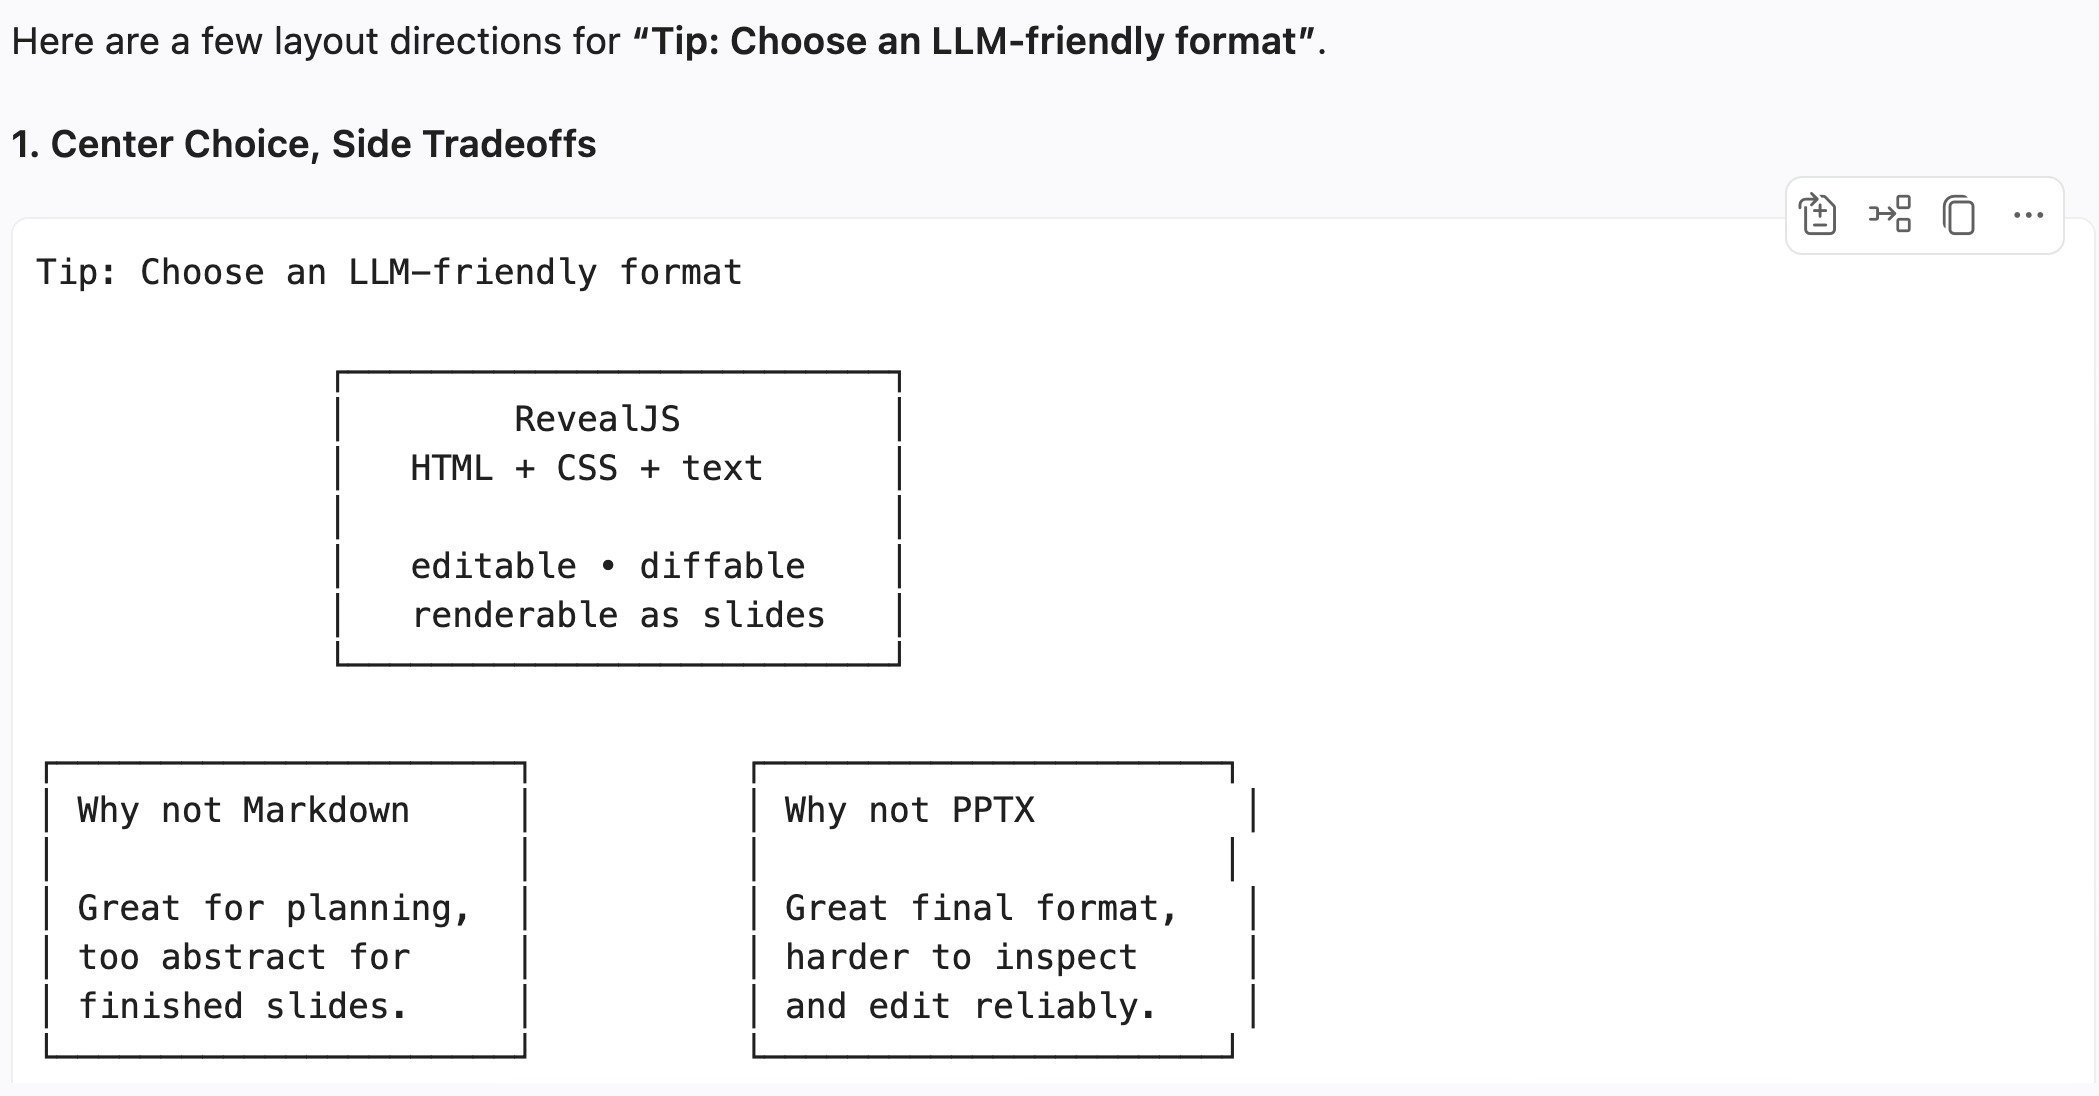
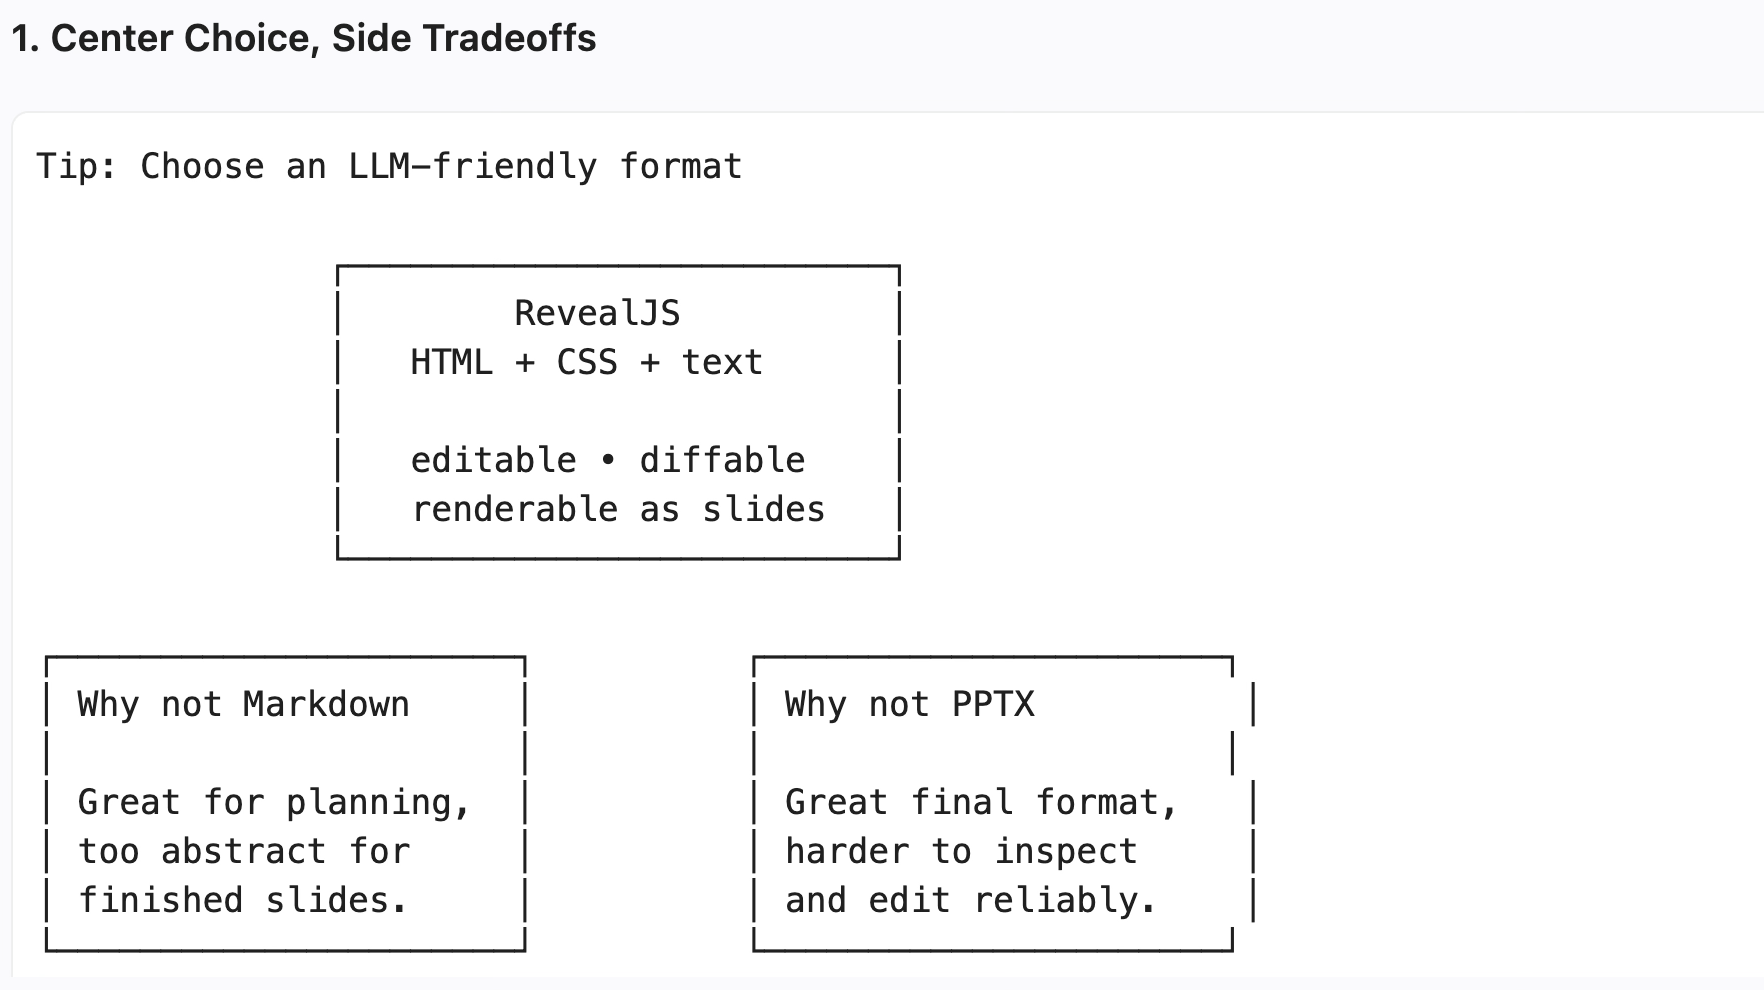
Update slides

diff --git a/docs/index.html b/docs/index.html
@@ -45,7 +45,7 @@
 
 		.reveal .slides section {
 			text-align: left;
-			padding-top: 0;
+			padding-top: 18px;
 			padding-left: 72px;
 			padding-right: 72px;
 			box-sizing: border-box;
@@ -964,15 +964,26 @@
 			box-shadow: 0 0 22px rgba(43, 93, 255, 0.22), inset 0 0 0 1px rgba(255, 43, 214, 0.14);
 			border-collapse: separate;
 			border-spacing: 0;
+			height: 100%;
 			padding: 12px 16px;
 			width: 100%;
+		}
+
+		.contact-table tbody {
+			display: table-row-group;
+			height: 100%;
+		}
+
+		.contact-table tr {
+			height: 16.66%;
 		}
 
 		.contact-table td {
 			border: 0;
 			font-size: 0.54em;
 			line-height: 1.18;
-			padding: 8px 10px;
+			padding: 10px;
+			vertical-align: middle;
 		}
 
 		.contact-table td:first-child {
@@ -1012,6 +1023,40 @@
 			font-size: 0.58em;
 			line-height: 1.24;
 			margin: 0;
+		}
+
+		.about-grid {
+			display: grid;
+			grid-template-columns: 1.35fr 0.65fr;
+			gap: 28px;
+			margin-top: 18px;
+			align-items: start;
+		}
+
+		.about-copy {
+			padding: 0;
+		}
+
+		.about-copy p {
+			font-size: 0.66em;
+			line-height: 1.24;
+			margin: 0 0 12px;
+		}
+
+		.about-copy .contact-table {
+			box-shadow: none;
+			margin-top: 10px;
+			padding: 8px 10px;
+		}
+
+		.about-photo {
+			border: 2px solid var(--deck-cyan);
+			border-radius: 6px;
+			box-shadow: 0 0 26px rgba(65, 223, 255, 0.28);
+			display: block;
+			max-height: 430px;
+			object-fit: cover;
+			width: 100%;
 		}
 
 		.iteration-grid {
@@ -1084,15 +1129,15 @@
 		.ascii-collage {
 			display: grid;
 			grid-template-columns: 1fr 1fr;
-			gap: 14px 18px;
-			margin-top: 16px;
+			gap: 4px 4px;
+			margin-top: 2px;
 		}
 
 		.ascii-prompt {
 			display: flex;
 			flex-direction: column;
 			align-items: flex-start;
-			margin-top: 14px;
+			margin-top: 4px;
 		}
 
 		.ascii-prompt-box {
@@ -1105,9 +1150,9 @@
 			font-family: var(--deck-body-font);
 			font-size: 0.22em;
 			font-weight: 700;
-			line-height: 1.18;
+			line-height: 1.08;
 			margin: 0;
-			padding: 16px 18px 14px;
+			padding: 7px 12px 6px;
 			white-space: nowrap;
 			width: 100%;
 		}
@@ -1122,10 +1167,11 @@
 			border: 2px solid var(--deck-border);
 			border-radius: 6px;
 			display: block;
-			max-height: 230px;
+			max-height: 240px;
 			max-width: 100%;
 			width: auto;
 			height: auto;
+			margin: 6px 0;
 		}
 
 		.ascii-shot.wide {
@@ -1133,8 +1179,12 @@
 		}
 
 		.ascii-shot.wide img {
-			max-height: 250px;
+			max-height: 194px;
 			height: auto;
+		}
+
+		.ascii-slide h3 {
+			padding-bottom: 0;
 		}
 
 		.decision-table {
@@ -1348,6 +1398,49 @@
 					</aside>
 				</section>
 
+				<section class="about-slide">
+					<h3>About me</h3>
+					<div class="about-grid">
+						<div class="about-copy">
+							<p>Python Cloud Advocate at Microsoft</p>
+							<p>Formerly: UC Berkeley, Coursera, Khan Academy, Google</p>
+							<p>Find me online at:</p>
+							<table class="contact-table">
+								<tbody>
+									<tr>
+										<td>Mastodon</td>
+										<td><a target="_blank" href="https://fosstodon.org/@pamelafox">@pamelafox@fosstodon.org</a></td>
+									</tr>
+									<tr>
+										<td>BlueSky</td>
+										<td><a target="_blank" href="https://bsky.app/profile/pamelafox.bsky.social">@pamelafox.bsky.social</a></td>
+									</tr>
+									<tr>
+										<td>Twitter</td>
+										<td><a target="_blank" href="https://www.twitter.com/pamelafox">@pamelafox</a></td>
+									</tr>
+									<tr>
+										<td>LinkedIn</td>
+										<td><a target="_blank" href="https://www.linkedin.com/in/pamela-s-fox/">www.linkedin.com/in/pamela-s-fox/</a></td>
+									</tr>
+									<tr>
+										<td>GitHub</td>
+										<td><a target="_blank" href="https://www.github.com/pamelafox">www.github.com/pamelafox</a></td>
+									</tr>
+									<tr>
+										<td>Website</td>
+										<td><a target="_blank" href="https://www.pamelafox.org">pamelafox.org</a></td>
+									</tr>
+								</tbody>
+							</table>
+						</div>
+						<img class="about-photo" src="photo_pamela_olaf.jpg" alt="Photo of Pamela smiling with an Olaf statue">
+					</div>
+					<aside class="notes">
+						Introduce yourself briefly and leave the contact details visible long enough for photos.
+					</aside>
+				</section>
+
 				<section>
 					<h3>Presentation prep is a workflow problem</h3>
 					<p class="lead">Every talk moves from planning into a build loop, then delivery, then follow-up materials.</p>
@@ -1389,13 +1482,12 @@
 
 				<section>
 					<h3>Tip: Choose an LLM-friendly format</h3>
-					<p class="lead">It is close enough to text for the agent, but still close enough to slides for the audience.</p>
 					<table class="decision-table">
 						<thead>
 							<tr>
 								<th>Format</th>
-								<th>Agent edits</th>
-								<th>Human review</th>
+								<th>Agent editability</th>
+								<th>Human reviewability</th>
 								<th>Visual expressivity</th>
 							</tr>
 						</thead>
@@ -1490,11 +1582,11 @@
 					</aside>
 				</section>
 
-				<section>
+				<section class="ascii-slide">
 					<h3>Tip: Ask agent for ASCII slide mockups</h3>
 					<div class="ascii-prompt">
 						<span class="retheme-speaker"><span class="speaker-icon">U</span>User prompt</span>
-						<p class="ascii-prompt-box">Mock up some ASCII diagrams of different ways to approach this slide.</p>
+						<p class="ascii-prompt-box">Mock up ASCII diagrams of different options for slide on "Choose an LLM-friendly format".</p>
 					</div>
 					<div class="ascii-collage">
 						<div class="ascii-shot">
@@ -1584,24 +1676,6 @@
 					</div>
 					<aside class="notes">
 						The key value is that the agent has the plan, deck, notes, and sources. It can generate useful derivatives with much less re-explaining.
-					</aside>
-				</section>
-
-				<section>
-					<h3>The workflow: plan → build → present → share</h3>
-					<div class="final-pattern">
-						<div class="pattern-item"><span>01</span><strong>Plan</strong></div>
-						<div class="pattern-loop">
-							<div class="pattern-item"><span>02</span><strong>Draft</strong></div>
-							<div class="pattern-item"><span>03</span><strong>Style</strong></div>
-							<div class="pattern-item"><span>04</span><strong>Iterate</strong></div>
-							<div class="pattern-item"><span>05</span><strong>Audit</strong></div>
-						</div>
-						<div class="pattern-item special"><span>06</span><strong>Present</strong></div>
-						<div class="pattern-item"><span>07</span><strong>Share</strong></div>
-					</div>
-					<aside class="notes">
-						Leave the room with the pattern, not the tool. The workflow matters more than any one implementation.
 					</aside>
 				</section>
 
